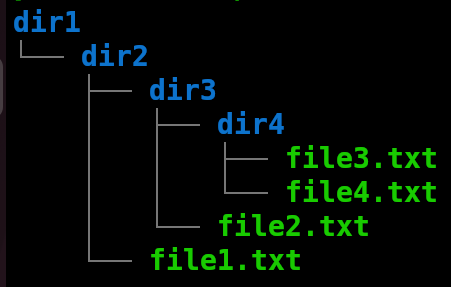
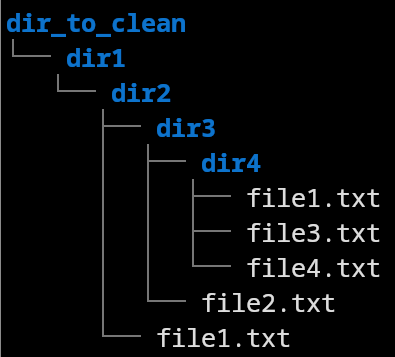
Readme : show duplicates

Changed region(s): [[0.0, 0.0, 0.9722, 1.0]]

diff --git a/Readme.md b/Readme.md
@@ -6,6 +6,7 @@ This software move all the files in a directory tree in the source directory and
 # Features
 - Compiled binary statically linked : nothing to install
 - Clean an unlimited number of directories
+- File duplicates detection : a suffix number is append to duplicates
 - A copy of the files is made  in the "results" directory without removing the orignal ones
 
 # Quick start
